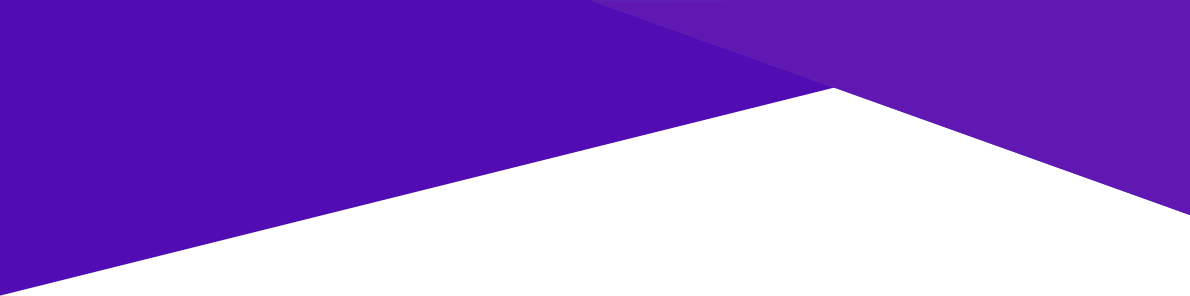
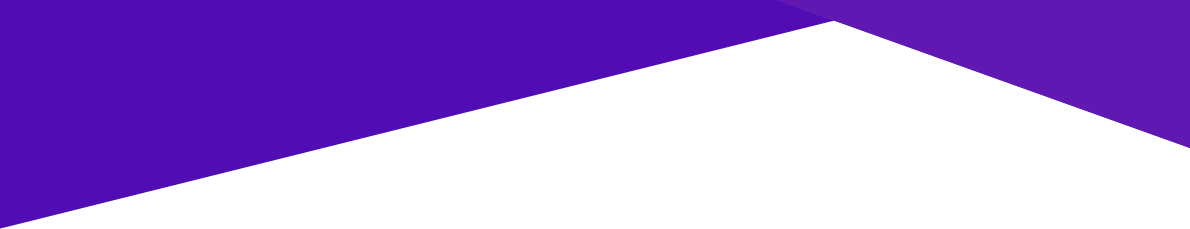
Ajout controller one Team + finalisation presta

Changed region(s): [[0.0, 0.0917, 1.0, 1.0]]

diff --git a/public/css/style.css b/public/css/style.css
@@ -53,9 +53,9 @@ nav{
 
 }
 }
-.prestationCard {
+/* .prestationCard {
 	margin: 1.5rem !important;
-}
+} */
 
 h1 .card-text{
 	font-family: 'Rubik', sans-serif !important;
@@ -182,7 +182,7 @@ font-size: 3.4rem;
 
 .imageThrombi {
   display: block;
-  width: 180px;
+  width: 160px;
   height: auto;
   border-radius:50%;
   border:1.5px solid #ede484;
@@ -217,11 +217,12 @@ font-size: 3.4rem;
 	font-weight:bold !important;
 }
 
-.card-text {
+/* .card-text {
 	font-size: 18px!important;
 	line-height: 1.85em!important;
 	letter-spacing: -.02rem!important;
-}
+} */
+
 .quote{
 	color:#510DB3;
 	font-family: 'Caveat Brush', cursive!important;
@@ -248,6 +249,7 @@ list-style: none;!important;
 
 .textThrombi {
     font-family: 'Give You Glory', cursive;
+    font-size:1.4rem;
 }
 
 /*----------------------------------------*/
@@ -272,9 +274,37 @@ list-style: none;!important;
 	background-image: url('/img/banPresta.png');
 	background-repeat: no-repeat;
 	background-size:cover;
+	height: 260px;
 }
 
 .imgPresta{
 	width:150px;
 	border-bottom: 3px solid #510db3;
+}
+
+.textPartPrestation{
+	font-size: 0.9rem;
+}
+.textObjPrestation{
+	font-size: 0.8rem;
+}
+
+.cardPresta{
+	box-shadow: 5px 5px 4px #b5aac4; 
+}
+#prix{
+	border: 1px solid #510db3;
+	border-radius:5px;
+	padding:10px;
+}
+
+/*----------------------------------------*/
+/* Template default CSS team
+/*----------------------------------------*/
+#banOneTeam{
+	width:100%;
+	background-image: url('/img/banTeam.png');
+	background-repeat: no-repeat;
+	background-size:cover;
+	height: 197px;
 }

diff --git a/public/css/responsive/style_reponsive_accueil.css b/public/css/responsive/style_reponsive_accueil.css
@@ -71,11 +71,6 @@ font-size: 5rem;
 padding-top: 110px !important;
 font-size: 3.4rem;
 }
-.cardTrombi{
-	margin-left:200px;
-	margin-right:200px;
-}
-
 
 }
 /*---------------Ipad Screen-------------*/
@@ -155,4 +150,23 @@ font-size: 3.4rem;
 		margin: auto;
 	}
 	
+}
+
+/*----------------------------------------*/
+/* Template responsive CSS Prestation
+/*----------------------------------------*/
+
+/*---------------Medium Screen-------------*/
+@media only screen and (max-width: 768px) {
+#banPresta{
+height: 124px;
+}
+
+
+}
+
+@media only screen and (max-width: 375px) {
+	#banPresta{	
+	height: 62px;
+}
 }

diff --git a/resources/views/pages/accueil.blade.php b/resources/views/pages/accueil.blade.php
@@ -6,7 +6,7 @@
 
 {{--Prestations--}}
 <section>
-	<div class="block d-flex row">
+	<div class="block d-flex">
 		<div class="blockA col-md-1"></div>
 		<div class="titre col-md-2 text-right">
 			<h1 class="m-1" id="nosPrestations">Nos prestations</h1>
@@ -24,7 +24,7 @@
 </section>
 {{--ENDPrestations--}}
 {{--Interline--}}
-	<div class="row" id="interlineA" style="height: 100px; background-color:#d5bafc;">
+	<div id="interlineA" style="height: 100px; background-color:#d5bafc;">
 	</div>
 {{--EndInterline--}}
 
@@ -55,7 +55,6 @@
 			<li class=" list-inline-item m-1"><button type="button" class="buttonThrombi btn " id="teamCs">Conseil scientifique</button></li>
 		</ul>
 	</div>
-	<div class="m-1 col-md themed-grid-col">
 		<div class="row">
 			@foreach($team as $membre)
 				@include('pages.accueil.team-accueil', compact($membre))
@@ -64,11 +63,11 @@
 
 {{--End TEAM--}}
 {{--Interline--}}
-	<div class="row" id="interlineC" style="height: 100px; background-color:white;"></div>
+	<div id="interlineC" style="height: 100px; background-color:white;"></div>
 {{--Coup de coeur--}}
 <section id="coupDeCoeur">
-	<div class="container-fluid m-t-1 ban2">
-		<h1 id="titreAssociation"  class="float-right"style="box-sizing:border-box;">Coup de coeur</h1>
+	<div class="m-t-1 ban2">
+		<h1 id="titreAssociation" class="float-right" style="box-sizing:border-box;">Coup de coeur</h1>
 	</div>
 
 @include('pages.accueil.coupDeCoeur-accueil',compact($hello))
@@ -77,6 +76,6 @@
 {{--ENDcoup de coeur--}}
 
 {{--Interline--}}
-<!-- 	<div class="row" id="interlineB" style="height: 100px; background-color:white;"></div> -->
+
 @endsection
 

diff --git a/resources/views/pages/prestation/categories-prestation.blade.php b/resources/views/pages/prestation/categories-prestation.blade.php
@@ -4,16 +4,17 @@
 @foreach($categorie->getCat as $prestation)
 
 @foreach($prestation->getPlusPresta as $plusPresta)
-<div class="card d-flex align-items-center" style="width: 18rem;">
-  <img class="card-img-top" src="img/prestation/{{$prestation->prestations_img1}}" alt="Card image cap">
+<div class="col-12 col-sm-6 col-lg-4">
+<div class="card cardPresta mt-sm-2 m-auto" style="width:17rem;">
+  <img class="card-img-top" src="img/prestation/{{$prestation->prestations_img1}}" alt="Card image cap" style="height:6rem;">
 	<div class="card-body">
-    <h5 class="card-title">{{$plusPresta->prestations_nom}}</h5>
-	<p class="card-text">{{$plusPresta->prestations_objectifs}}</p>
-	<p class="card-text">{{$plusPresta->prestations_participants}}</p>
-	<a href="{{route('prestation.getOnePrestation', ['prestaId'=>$prestation->prestations_id])}}" class="btn btn-warning d-flex align-items-center" style="width: 10rem;">En savoir plus</a>
-
-
-  </div>
+    <h2 class="titreH2prestation card-title text-center" style="height:5rem;">{{$plusPresta->prestations_nom}}</h2>
+	<p class="textObjPrestation card-text border rounded p-2" style="height:11rem;">{{$plusPresta->prestations_objectifs}}</p>
+	<p class="textPartPrestation card-text" style="height:4rem;">{{$plusPresta->prestations_participants}}</p>
+	<a href="{{route('prestation.getOnePrestation', ['prestaId'=>$prestation->prestations_id])}}" class="btn btn-warning text-center" style="width: 10rem;">En savoir plus</a>
 </div>
+</div>
+</div>
+
 @endforeach
 @endforeach

diff --git a/resources/views/pages/prestation/prestation-prestations.blade.php b/resources/views/pages/prestation/prestation-prestations.blade.php
@@ -15,9 +15,9 @@
 </div>
 
 <div class="row">
-  <div class="col-12 col-sm-8" style="width:100%;">
-  	<h2 class="titreH2prestation">Description</h2>
-  	<p>{{$aboutPresta->prestations_description}}</p>
+  <div class="col-12 col-sm-8 border rounded" style="width:100%;">
+  	<h2 class="titreH2prestation">Informations</h2>
+  	<p>{!!$aboutPresta->prestations_description!!}</p>
   </div>
   <div class="col-12 col-sm-4" style="width:100%;">
 	<h2 class="titreH2prestation">L'objectif:</h2>
@@ -26,12 +26,13 @@
 </div>
 
 <div class="row">
-  <div class="col-12 col-sm-8" style="width:100%;">
-  	<p>{{$aboutPresta->prestations_cahierdescharges}}</p>
+  <div class="col-12 col-sm-8 border rounded" style="width:100%;">
+    <h2 class="titreH2prestation">Cahier des charges:</h2>
+    {!!$aboutPresta->prestations_cahierdescharges!!}
   </div>
-  <div class="col-12 col-sm-4 border rounded" style="width:100%;">
-  	<h2 class="titreH2prestation">Prix:</h2>
-  	<h3 class="titreH3prestation">{{$aboutPresta->prestations_prix}}</h3>
+  <div class="col-12 col-sm-4" style="width:100%;">
+  	<h2 class="titreH2prestation" >Prix:</h2>
+  	<h3 class="titreH3prestation" id="prix">{!!$aboutPresta->prestations_prix!!}</h3>
   </div>
 </div>
 @endforeach

diff --git a/resources/views/pages/team/Oneteam.blade.php b/resources/views/pages/team/Oneteam.blade.php
@@ -1,0 +1,27 @@
+<div class="row">
+  <div class="col-12 m-auto border">
+  	 <img class="imageThrombi" src="/img/team/{{$membre->membre_photo}}" alt="photo de {{$membre->membre_nom}} {{$membre->membre_prenom}} de l'association ApprentiPasSage" style="width:200px;">
+  </div>
+  <div class="col-12 col-md-6 border " style="width:100%;">
+	   <h1 class="titreH1prestation">{{$membre->membre_prenom}} {{$membre->membre_nom}}</h1>
+  </div>
+</div>
+
+<div class="row">
+    <div class="col-12 border" style="width:100%;">
+    <h2 class="titreH2prestation">Rôle dans l'association</h2>
+    <h3 class="titreH3prestation">loremmmmmmmmmmmmmmmmmmmmmmmm</h3>
+  </div>
+</div>
+
+<div class="row">
+  <div class="col-12 col-sm-8 border rounded" style="width:100%;">
+    <h2 class="titreH2prestation">&Agrave; propos de moi:</h2>
+  	<p>{!!$membre->membre_description!!}</p>
+  </div>
+  <div class="col-12 col-sm-4 border" style="width:100%;">
+	  <h2 class="titreH2prestation">Me contacter:</h2>
+    <h3 class="titreH3prestation">{{$membre->membre_tel}}</h3>
+    <h3 class="titreH3prestation">{{$membre->membre_email}}</h3>
+  </div>
+</div>

diff --git a/resources/views/pages/accueil/accueil-PrestationCard.blade.php b/resources/views/pages/accueil/accueil-PrestationCard.blade.php
@@ -1,9 +1,11 @@
 	<div class="col">
-	<div class="card d-flex align-items-center prestationCard" style="width: 15rem; height: 18rem;">
+	<div class="card d-flex align-items-center prestationCard mt-2" style="width: 15rem; height: 20rem;">
 		<img class="card-img-top m-2" src="img/{{$cat->categories_img}}" alt=" image de la catégorie de prestation :{{$nameCat->categories_name}}" style="width: 7rem; height: 7rem;">
-		<div class="card-body cardPrestation">
-			<h1 class="titlePrestation card-text text-center m-2">{{$nameCat->categories_name}}</h1>
-			<a href="{{route('prestations.getCatPrestation', ['catId'=>$cat->categories_id])}}" class="btn btn-warning d-flex align-items-center" style="width: 10rem;">En savoir plus</a>
+		<div class="card-body cardPrestation" style="height:11rem;">
+			<h1 class="titlePrestation card-text text-center m-2" style="height:6rem;">{{$nameCat->categories_name}}</h1>
+			<div  style="height: 5rem;">
+			<a href="{{route('prestations.getCatPrestation', ['catId'=>$cat->categories_id])}}" class="btn btn-warning d-flex align-items-center m-2">En savoir plus</a>
+		</div>
 		</div>
 	</div>
 </div>

diff --git a/resources/views/pages/accueil/team-accueil.blade.php b/resources/views/pages/accueil/team-accueil.blade.php
@@ -1,7 +1,8 @@
-<div class="col-sm themed-grid-col">
-	<div class="cardTrombi" style="width: 18rem; height: 18rem;">
 
-		<div class="d-flex flex-column">
+<div class="col-12 col-sm-6 col-lg-3">
+	<div style="width: 18rem; height: 18rem;">
+		<a href="{{route('teamController.getOneteam', ['teamId'=>$membre->membre_id])}}">
+			<div class="d-flex flex-column">
 
 				<img class="imageThrombi m-auto
 				@foreach($membre->getMembre as $status)
@@ -13,8 +14,10 @@
 				@else
 					src="img/team/{{$membre->membre_photo}}" alt="photo de {{$membre->membre_nom}}">
 				@endif
-		<h3 class="mt-3 textThrombi text-center">{{$membre->membre_prenom}} {{$membre->membre_nom}}</h3>
+			</a>
+			<h3 class="mt-3 textThrombi text-center">{{$membre->membre_prenom}} {{$membre->membre_nom}}</h3>
 
-	</div>
+			</div>
+		
 	</div>
 </div>

diff --git a/routes/web.php b/routes/web.php
@@ -17,6 +17,8 @@ Route::get('/prestations/{catId}', 'PrestationController@getCatPrestation')->nam
 
 Route::get('/prestation/{prestaId}','PrestationController@getOnePrestation')->name('prestation.getOnePrestation');
 
+Route::get('/membre-association/{teamId}','teamController@getOneteam')->name('teamController.getOneteam');
+
 /*Route::get('/prestations/{categories_id}','PrestationController@getCatPrestation')->name('prestation');*/
 
 /*route::get('association',function(){

diff --git a/resources/views/pages/prestations.blade.php b/resources/views/pages/prestations.blade.php
@@ -5,18 +5,15 @@
 @section('content')
 
 {{--Prestations--}}
-<section>
-	<div class="block d-flex row">
+<section class="block">
+	<div class="d-flex row ml-2 mr-2">
 
 			@foreach ($prestaCat as $categorie) 
-			<div class="row">
 					@include('pages.prestation.categories-prestation', compact('prestaCat'))
 			@endforeach
-
-		</div>
 	</div>
 </section>
 {{--ENDPrestations--}}
 
-
+<div id="interlineA" style="height: 100px;"></div>
 @endsection

diff --git a/resources/views/pages/team.blade.php b/resources/views/pages/team.blade.php
@@ -1,0 +1,17 @@
+@extends('layouts.master')
+
+@section('title', "membre")
+
+@section('content')
+<div id="banOneTeam" class="container-fluid ban"></div>
+{{--Prestations--}}
+<section>
+  <div class="ml-2 mr-2">
+      @foreach ($oneTeam as $membre) 
+          @include('pages.team.oneTeam', compact('oneTeam'))
+      @endforeach
+  </div>
+</section>
+{{--ENDPrestations--}}
+
+@endsection

diff --git a/app/Http/Controllers/TeamController.php b/app/Http/Controllers/TeamController.php
@@ -1,0 +1,17 @@
+<?php
+
+namespace App\Http\Controllers;
+
+use Illuminate\Http\Request;
+use App\models;
+
+class TeamController extends Controller
+{
+    public function getOneTeam($teamId)
+    {
+    	$oneTeam = models\membre::where('membre_id','=',$teamId)->with('getMembre')->get();    	     
+
+       return view('pages.team', compact('oneTeam'));
+    }
+
+}
